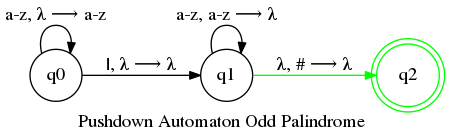
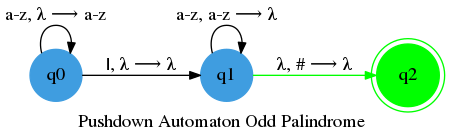
add styles

Changed region(s): [[0.84, 0.3212, 0.9956, 0.7883], [0.4356, 0.3504, 0.5911, 0.7591], [0.0622, 0.3504, 0.1867, 0.7591]]

diff --git a/modules/app.py b/modules/app.py
@@ -29,9 +29,8 @@ class ScrolledFrame(Frame):
 
     def __init__(self, parent, vertical=True, horizontal=False):
         super().__init__(parent)
-
         # canvas for inner frame
-        self._canvas = Canvas(self)
+        self._canvas = Canvas(self, background= "#595959", bd=0, highlightthickness=0,borderwidth=2 ,relief='solid')
         self._canvas.grid(row=0, column=0, sticky='news') # changed
 
         # create right scrollbar and connect to canvas Y
@@ -47,7 +46,7 @@ class ScrolledFrame(Frame):
         self._canvas.configure(xscrollcommand=self._horizontal_bar.set)
 
         # inner frame for widgets
-        self.inner = Frame(self._canvas)
+        self.inner = Frame(self._canvas,  bg= "#595959")
         self._window = self._canvas.create_window((160, 0), window=self.inner, anchor='nw')
 
         # autoresize inner frame
@@ -73,7 +72,7 @@ class App:
         self.gui.title("Pushdown Automaton")
         self.gui.geometry("510x620")
         self.gui.resizable(False,False)
-        self.icon = Image("photo", file="python-logo.png")
+        self.icon = Image("photo", file="logo.png")
         self.gui.tk.call('wm','iconphoto',self.gui._w, self.icon)
         self.txtStack = []
         self.G = None
@@ -86,23 +85,23 @@ class App:
         self.currentRegex = StringVar()
         self.word = StringVar()
 
-        self.panel = Frame(self.gui)
+        self.panel = Frame(self.gui, bg="#e1e5ed")
         self.panel.pack(fill="both", expand="True")
 
-        self.lblPDA = Label(self.panel, text="Pushdown Automaton", font=('Verdana',20))
+        self.lblPDA = Label(self.panel, bg="#e1e5ed", text="Pushdown Automaton", font=('Verdana',18,'bold'))
         self.lblPDA.grid(row = 0,column=0, columnspan=5, pady=10)
 
-        self.lblWord = Label(self.panel, text="Word:", font=('Verdana',12))
+        self.lblWord = Label(self.panel, bg="#e1e5ed",text="Word:", font=('Verdana',13,'bold'))
         self.lblWord.grid(row = 1, column=0, pady=10)
-        self.txtWord=Entry(self.panel, textvariable = self.word, width="16",font=('Verdana',12))
-        self.txtWord.grid(row=1, column=1, pady=10)
+        self.txtWord=Entry(self.panel, textvariable = self.word, width="16",font=('Verdana',13))
+        self.txtWord.grid(row=1, column=1, pady=10, padx=0)
         self.txtWord.config(disabledbackground="black", disabledforeground="#03f943", justify="left",highlightbackground="#000000",highlightthickness=1, bd=0)
-        self.btnVerifyFast=Button(self.panel, text="fast", font=('Verdana',10), command=lambda:self.runPDA(True))
+        self.btnVerifyFast=Button(self.panel, bg="#3f9de0", fg="#ffffff",relief='flat', text="Fast", font=('Verdana',10,'bold'), command=lambda:self.runPDA(True))
         self.btnVerifyFast.grid(row=1, column=2)
-        self.btnVerifyLow=Button(self.panel, text="slow", font=('Verdana',10), command=lambda:self.runPDA(False))
+        self.btnVerifyLow=Button(self.panel, bg="#3f9de0", fg="#ffffff",relief='flat',text="Slow", font=('Verdana',10,'bold'), command=lambda:self.runPDA(False))
         self.btnVerifyLow.grid(row=1, column=3)
         icon = PhotoImage(file ="img/microphone.png")
-        self.btnSpeech=Button(self.panel, text="n",width="25",height="25", image=icon, font=('Verdana',10), command=lambda:self.runSpeech())
+        self.btnSpeech=Button(self.panel, bg="#3f9de0", relief='flat',text="",width="30",height="25", image=icon, font=('Verdana',10), command=lambda:self.runSpeech())
         self.btnSpeech.grid(row=1, column=4)
         
         background = PhotoImage(file="img/background.png")
@@ -111,7 +110,7 @@ class App:
         self.createPDA()
         self.showPDA("odd")
 
-        self.lblStack = Label(self.panel, text="Stack", font=('Verdana',20))
+        self.lblStack = Label(self.panel, bg="#e1e5ed", text="Stack", font=('Verdana',18,'bold'))
         self.lblStack.grid(row = 3,column=0, columnspan=5, pady=10)
 
         self.panelStack = ScrolledFrame(self.panel)
@@ -123,8 +122,8 @@ class App:
             element.config(disabledbackground="white", disabledforeground="#000000", justify="center",highlightbackground="#000000",highlightthickness=1, bd=1)
             self.txtStack.append(element)
 
-        self.lblResult = Label(self.panel, text="", font=('Verdana',11))
-        self.lblReader = Label(self.panel, text="", font=('Verdana',11))
+        self.lblResult = Label(self.panel, bg="#e1e5ed", text="", font=('Verdana',11,'bold'))
+        self.lblReader = Label(self.panel, bg="#e1e5ed", text="", font=('Verdana',11,'bold'))
 
         mainloop()
 
@@ -236,7 +235,7 @@ class App:
 
         for txt in self.txtStack:
             txt.destroy()
-        self.lblReader.grid(row=5, column=0, pady=5, columnspan=2)
+
         stringStack = []
         for i in range(length+1):
             varElem = StringVar()
@@ -247,7 +246,7 @@ class App:
             self.txtStack.append(element)
 
         stringStack[-1].set("#")
-        length-=1
+        # length-=1
         self.changeTransitions(("q0","q0"),("q0","q0"))
         s=1
         i="q0"
@@ -255,24 +254,30 @@ class App:
         for t in transitions:
             self.gui.after(s*delay,self.changeTransitions,(i,"q"+str(t['id'])),(a,i))
             if t['push']:
-                self.gui.after(s*delay,self.pushStack,stringStack[length],t['letter'])
                 length-=1
+                self.gui.after(s*delay,self.pushStack,stringStack[length],t['letter'])
+                self.gui.after(s*delay,self.showReader,t['letter'])
             else:
-                self.gui.after(s*delay,self.popStack,stringStack[length],t['letter'])
-                length+=1
+                if t['change']:
+                    self.gui.after(s*delay,self.showReader,t['letter'])
+                else:
+                    if length<len(stringStack):
+                        self.gui.after(s*delay,self.showReader,t['letter'])
+                        self.gui.after(s*delay,self.popStack,stringStack[length])
+                        length+=1
             s+=1
             a=i
             i="q"+str(t['id'])
             
-    
 
     def pushStack(self, satckPlace,value):
-        self.lblReader.config(text=str("Reader: "+value))
         satckPlace.set(value)
 
-    def popStack(self, satckPlace, value):
-        self.lblReader.config(text=str("Reader: "+value))
+    def popStack(self, satckPlace):
         satckPlace.set("")
+
+    def showReader(self,value):
+        self.lblReader.config(text=str("Head Reader: "+value))
 
     def runPDA(self, velocity):
         transitions=[]
@@ -303,7 +308,8 @@ class App:
                 self.lblResult.config(text = "Is valid?: NO", fg="red")
                 self.sayResutl("the word is not valid!")
 
-            self.lblResult.grid(row=5, column=1, pady=5, columnspan=3)
+            self.lblReader.grid(row=5, column=0, pady=5, columnspan=2)
+            self.lblResult.grid(row=5, column=2, pady=5, columnspan=2)
 
             if velocity:
                 self.animate(length, transitions, 500)
@@ -312,13 +318,13 @@ class App:
 
 
     def validateEvenPDA(self, word, l, stack, transitions):
+
         validWay = False
         if l<len(word):
-
             if self.evenPDA.currentState == 0:
                 if word[l] in "abcdefghijklmnñopqrstuvwxyz":
                     stack.append(word[l])
-                    transitions.append({'id':0,'letter':word[l],'push':True})
+                    transitions.append({'id':0,'letter':word[l],'push':True,'change':False})
                 elif word[l] == "λ":
                     self.evenPDA.nexState(1)
                     validWay, transitionsAux = self.validateEvenPDA(word,l+1,stack.copy(),transitions.copy())
@@ -330,11 +336,11 @@ class App:
             elif self.evenPDA.currentState == 1:
                 if  word[l] != "λ" and word[l] == stack[-1]:
                     stack.pop()
-                    transitions.append({'id':1,'letter':word[l],'push':False})
+                    transitions.append({'id':1,'letter':word[l],'push':False,'change':False})
                 elif word[l] == "λ":
                     if stack[-1] == "#" and l == len(word)-1:
                         stack.pop()
-                        transitions.append({'id':2,'letter':word[l],'push':False})
+                        transitions.append({'id':2,'letter':"#",'push':False,'change':False})
                         self.evenPDA.nexState(2)
                         return True, transitions
                 else:
@@ -349,16 +355,16 @@ class App:
             if self.oddPDA.currentState == 0:
                 if l in "abcdefghijklmnñopqrstuvwxyz":
                     self.stack.push(l)
-                    transitions.append({'id':0,'letter':l,'push':True})
+                    transitions.append({'id':0,'letter':l,'push':True,'change':False})
                 elif l == "|":
-                    transitions.append({'id':0,'letter':middle,'push':False})
+                    transitions.append({'id':1,'letter':middle,'push':False,'change':True})
                     self.oddPDA.nexState(1)
             elif self.oddPDA.currentState == 1:
-                transitions.append({'id':1,'letter':l,'push':False})
                 if l == self.stack.getTop():
+                    transitions.append({'id':1,'letter':l,'push':False,'change':False})
                     self.stack.pop()
                     if self.stack.getTop() == "#":
-                        transitions.append({'id':2,'letter':l,'push':False})
+                        transitions.append({'id':2,'letter':l,'push':False,'change':False})
                         self.oddPDA.nexState(2)
                         self.stack.pop()
                 else:

diff --git a/modules/graph.py b/modules/graph.py
@@ -14,8 +14,8 @@ class Graph:
         self.G=nx.MultiDiGraph()
 
         self.G.graph['edge'] = {'arrowsize': '0.8', 'overlap':False, 'color':'black'}
-        self.G.graph['graph'] = {'scale': '3', 'rankdir':'LR', 'label':label}
-        self.G.graph['node']= {'shape':'circle', 'color':'black'}
+        self.G.graph['graph'] = {'scale': '14', 'rankdir':'LR', 'label':label}
+        self.G.graph['node']= {'shape':'circle', 'color':'#3f9de0', 'style':'filled'}
         
         for edge in self.transitions:
             self.G.add_edge(edge['from'], edge['to'], label=edge['with'])
@@ -23,6 +23,7 @@ class Graph:
         for i in self.accepted:
             n=self.G.node[i]
             n['shape'] ='doublecircle'
+            # n['fillcolor'] = 'green'
 
         self.A = to_agraph(self.G) 
         self.A.layout('dot')                                                          
@@ -30,7 +31,7 @@ class Graph:
 
     def changeState(self,i,a):
         
-        self.G.node[i[0]]['color'] = 'black'
+        self.G.node[i[0]]['color'] = '#3f9de0'
         self.G.node[i[1]]['color'] = 'green'
 
         self.G[a[0]][a[1]][0]['color'] = 'black'
